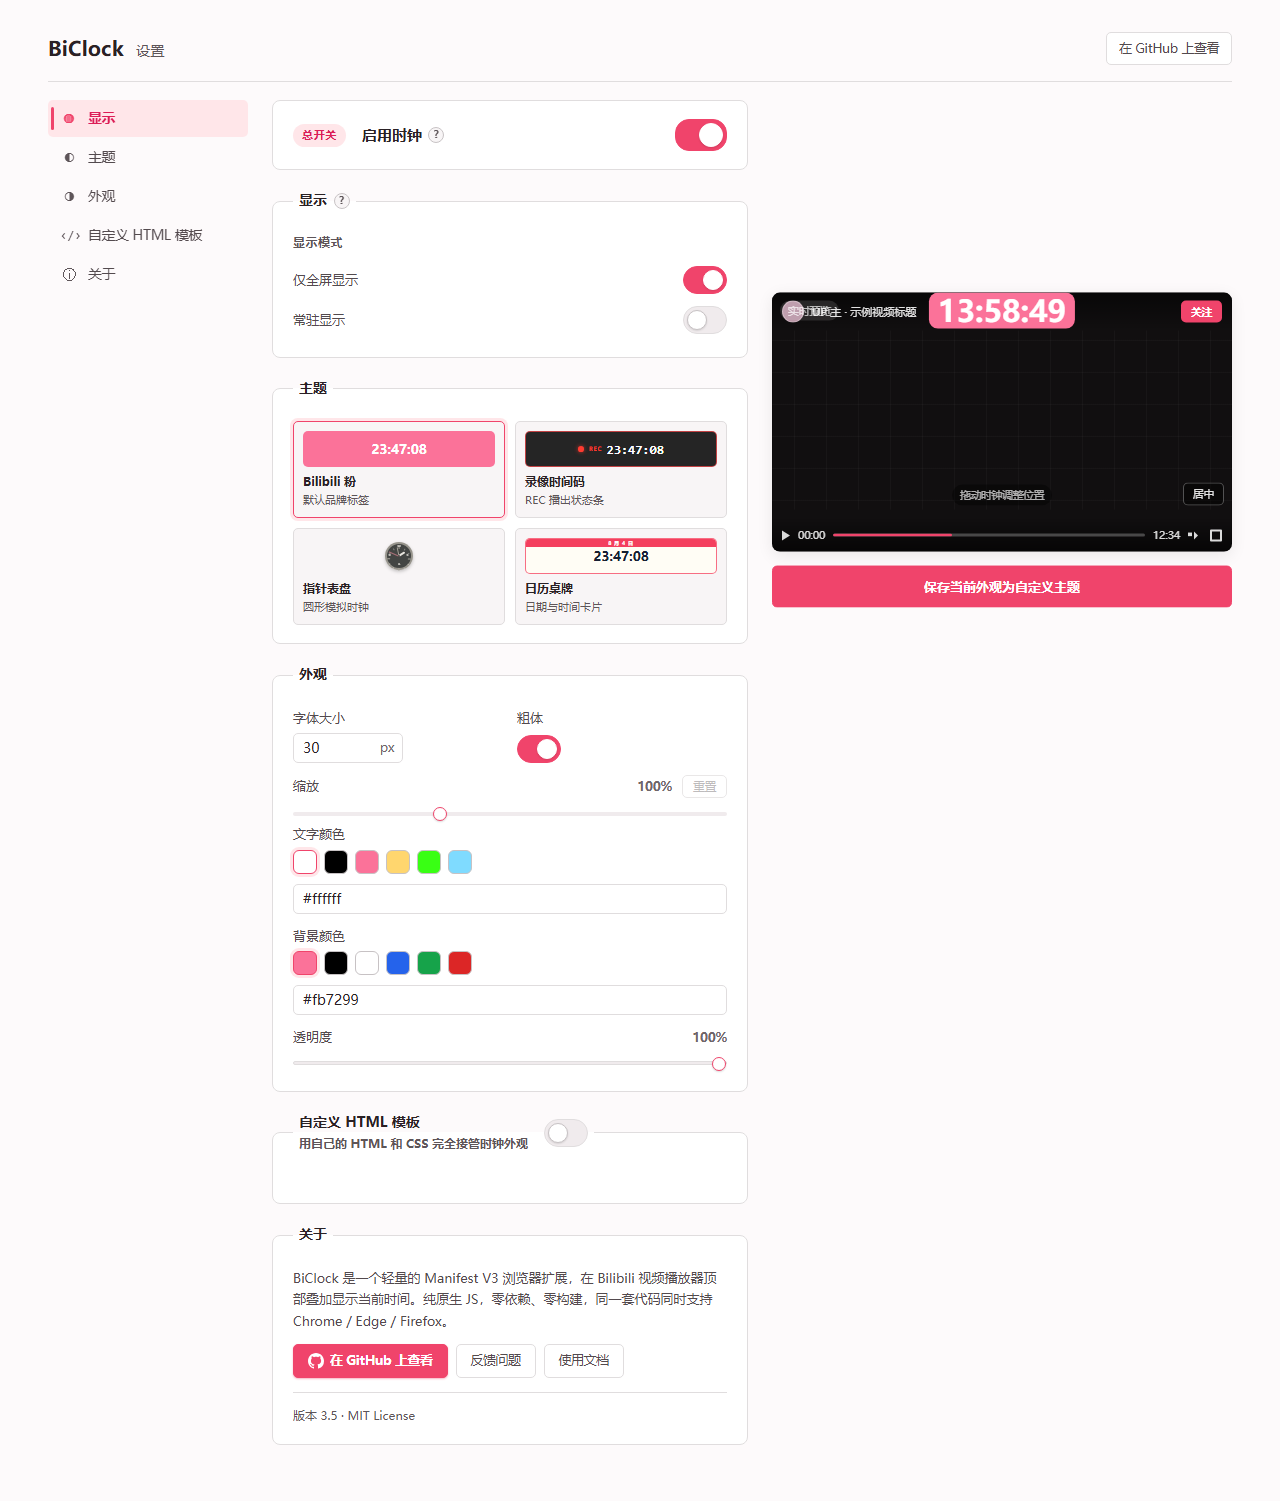
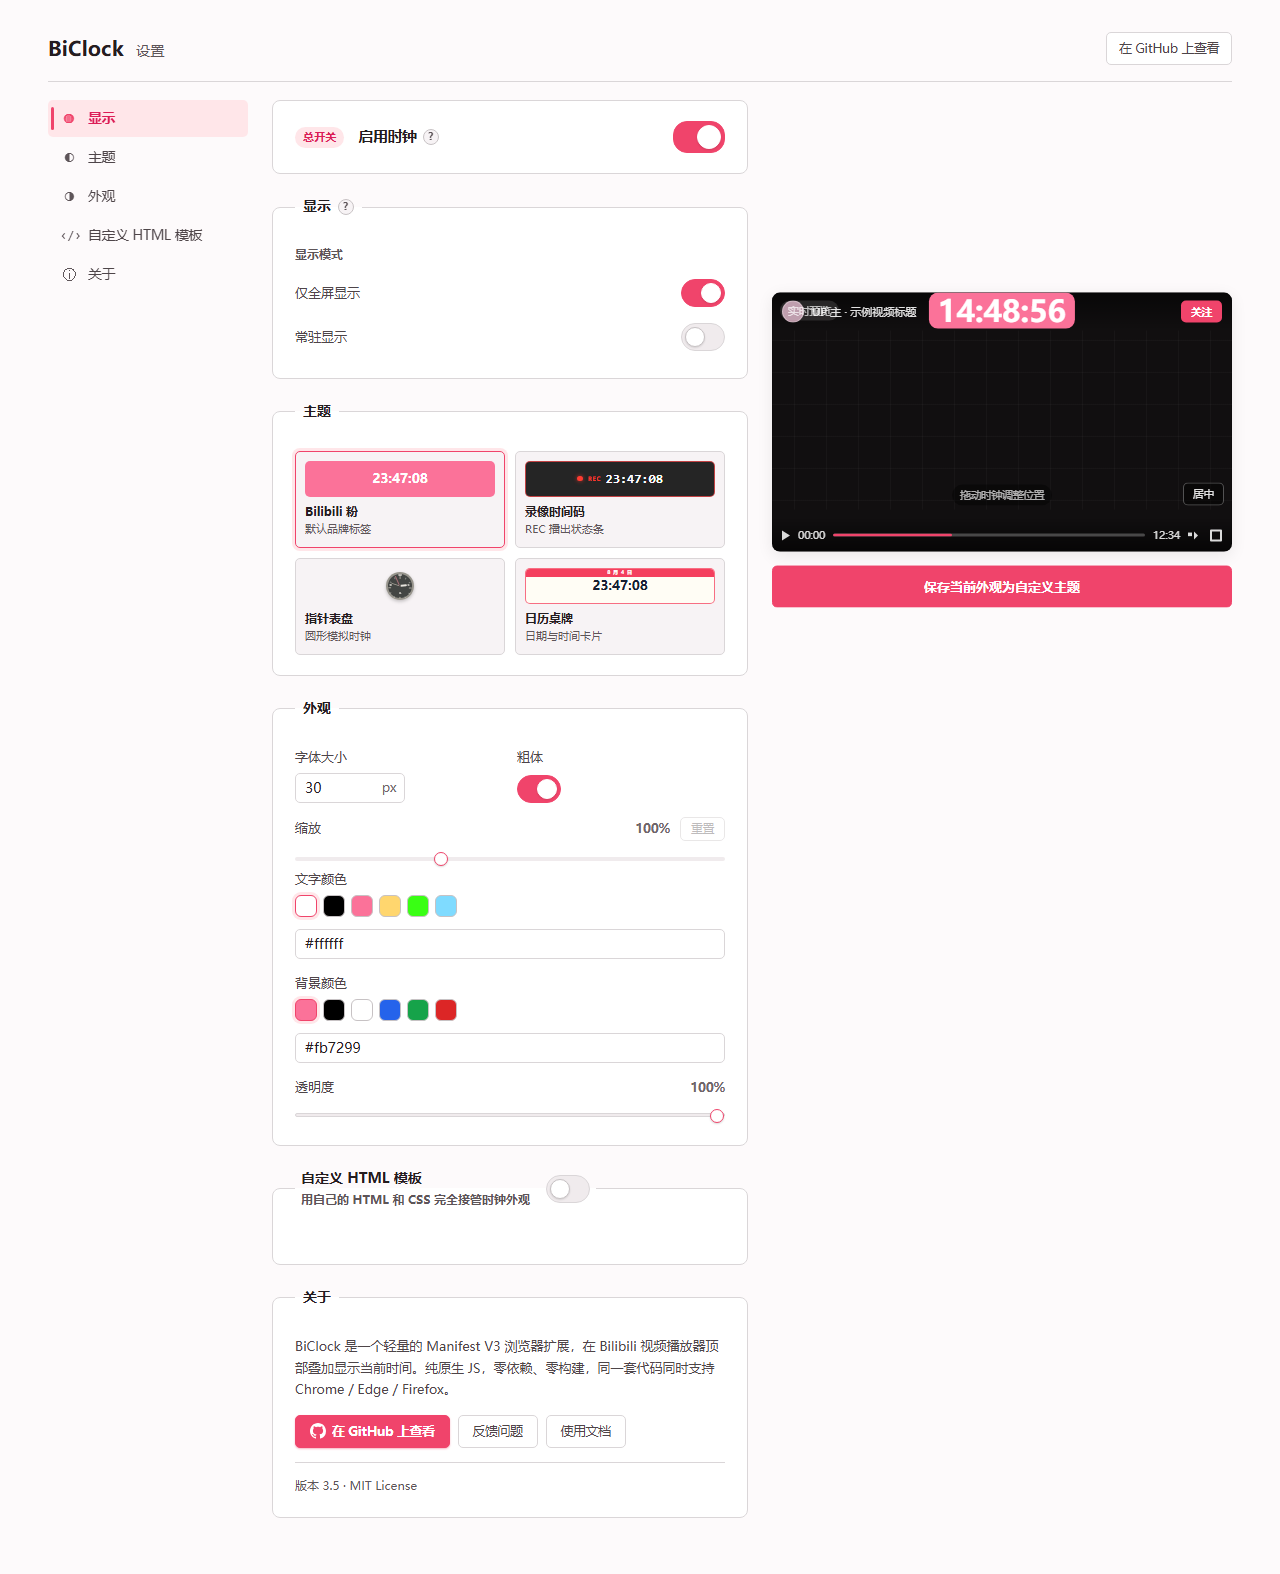
fix(styles): adjust color and spacing variables for improved UI consistency

diff --git a/popup.css b/popup.css
@@ -18,14 +18,14 @@
     /* 中性灰阶：很轻地往粉的方向偏 0.003 chroma，避免冷灰感 */
     --bg:          oklch(98.8% 0.003 350);
     --surface:     oklch(100%  0    0);
-    --surface-2:   oklch(97.2% 0.004 350);
+    --surface-2:   oklch(96.8% 0.005 350);
     --surface-3:   oklch(94.5% 0.005 350);
 
-    --border:      oklch(90.0% 0.004 350);
+    --border:      oklch(88.0% 0.005 350);
     --border-hi:   oklch(82.0% 0.006 350);
 
-    --ink:         oklch(26.0% 0.015 350);
-    --ink-2:       oklch(42.0% 0.014 350);
+    --ink:         oklch(24.0% 0.014 350);
+    --ink-2:       oklch(40.0% 0.014 350);
     --ink-3:       oklch(46.0% 0.013 350);
     --ink-unit:    oklch(52.0% 0.012 350);
 
@@ -49,7 +49,7 @@
 body {
     width: 296px;
     margin: 0;
-    padding: 14px 14px 14px;
+    padding: 16px 16px 18px;
     font-family: system-ui, -apple-system, "Segoe UI", Roboto, "Microsoft YaHei UI", "Microsoft YaHei", "PingFang SC", sans-serif;
     font-size: 13px;
     line-height: 1.45;
@@ -188,7 +188,7 @@ fieldset {
 }
 
 fieldset + fieldset {
-    margin-top: 14px;
+    margin-top: 16px;
 }
 
 legend {
@@ -212,9 +212,9 @@ label:last-child { margin-bottom: 0; }
 .grid-2 {
     display: grid;
     grid-template-columns: 1fr 1fr;
-    row-gap: 8px;
-    column-gap: 10px;
-    margin-bottom: 9px;
+    row-gap: 10px;
+    column-gap: 12px;
+    margin-bottom: 12px;
 }
 
 .field {
@@ -238,26 +238,26 @@ label:last-child { margin-bottom: 0; }
    只覆盖 color / backgroundColor 单键，bold / 字号 / 透明度不动。
    ============================================================ */
 .field-color {
-    margin-bottom: 9px;
+    margin-bottom: 12px;
 }
 
 .color-row {
     display: flex;
     align-items: center;
     flex-wrap: nowrap;
-    gap: 6px;
+    gap: 8px;
 }
 
 .swatches {
     display: flex;
     flex: none;
     flex-wrap: nowrap;
-    gap: 4px;
+    gap: 3px;
 }
 
 .swatch {
-    width: 18px;
-    height: 18px;
+    width: 16px;
+    height: 16px;
     flex: none;
     padding: 0;
     border: 1px solid var(--border-hi);
@@ -291,7 +291,7 @@ label:last-child { margin-bottom: 0; }
 /* 用 .color-row 提升特异性，压过通用 input[type="text"]{width:100%} (0,1,1)，
    否则 Hex 输入会被拉满 color-row，与 nowrap 色块叠加后挤出 popup。 */
 .color-row .hex-input {
-    width: 80px;
+    width: 76px;
     flex: none;
 }
 
@@ -313,11 +313,11 @@ label:last-child { margin-bottom: 0; }
     align-items: center;
     justify-content: space-between;
     gap: 10px;
-    padding: 4px 0;
+    padding: 6px 0;
 }
 
 .toggle-line + .toggle-line {
-    margin-top: 2px;
+    margin-top: 4px;
 }
 
 .toggle-line-text {
@@ -553,7 +553,7 @@ label:last-child { margin-bottom: 0; }
 .row-stacked {
     display: flex;
     flex-direction: column;
-    gap: 5px;
+    gap: 6px;
 }
 
 .row-stacked > .row-head {
@@ -570,7 +570,7 @@ label:last-child { margin-bottom: 0; }
 
 /* 数值徽标（range 的当前值，粉色 accent） */
 .value-display {
-    font-size: 11.5px;
+    font-size: 12px;
     color: var(--pink-hi);
     font-variant-numeric: tabular-nums;
     font-weight: 600;
@@ -593,13 +593,13 @@ label:last-child { margin-bottom: 0; }
 }
 
 .reset-inline-btn {
-    padding: 1px 8px;
+    padding: 2px 9px;
     border: 1px solid var(--border-hi);
     border-radius: 4px;
     background: var(--surface);
     color: var(--ink-3);
     font: inherit;
-    font-size: 11px;
+    font-size: 11.5px;
     font-weight: 500;
     line-height: 1.5;
     cursor: pointer;
@@ -640,7 +640,7 @@ label:last-child { margin-bottom: 0; }
 
 .input-unit .unit {
     position: absolute;
-    right: 8px;
+    right: 9px;
     top: 50%;
     transform: translateY(-50%);
     pointer-events: none;
@@ -870,7 +870,7 @@ input[type="checkbox"]:focus-visible {
    底部「更多设置」提示行：链接形式，触发同一 openOptions
    ============================================================ */
 .more-hint {
-    margin: 14px 0 0;
+    margin: 16px 0 0;
     padding: 10px 12px;
     border-radius: var(--radius-sm);
     background: var(--surface-2);
@@ -907,8 +907,8 @@ input[type="checkbox"]:focus-visible {
 .master-toggle-card {
     display: flex;
     align-items: center;
-    gap: 10px;
-    padding: 10px 12px;
+    gap: 11px;
+    padding: 9px 12px;
     margin: 0;
     border: 1px solid var(--border);
     border-radius: var(--radius);
@@ -917,11 +917,11 @@ input[type="checkbox"]:focus-visible {
 
 .master-toggle-eyebrow {
     flex: none;
-    padding: 2px 8px;
+    padding: 2px 7px;
     border-radius: 999px;
     background: var(--pink-soft);
     color: var(--pink-hi);
-    font-size: 10px;
+    font-size: 9.5px;
     font-weight: 700;
     letter-spacing: 0.06em;
 }
@@ -932,8 +932,8 @@ input[type="checkbox"]:focus-visible {
 }
 
 .master-toggle-name {
-    font-size: 13.5px;
-    font-weight: 650;
+    font-size: 13px;
+    font-weight: 600;
     color: var(--ink);
 }
 
@@ -964,7 +964,7 @@ input[type="checkbox"]:focus-visible {
 
 .sub-group-title {
     margin: 0 0 6px;
-    font-size: 11px;
+    font-size: 11.5px;
     font-weight: 600;
     color: var(--ink-3);
     letter-spacing: 0.04em;

diff --git a/options.css b/options.css
@@ -17,14 +17,14 @@
     /* 与 popup.css 同源的 tokens 副本（保持两边视觉一致） */
     --bg:          oklch(98.8% 0.003 350);
     --surface:     oklch(100%  0    0);
-    --surface-2:   oklch(97.2% 0.004 350);
+    --surface-2:   oklch(96.8% 0.005 350);
     --surface-3:   oklch(94.5% 0.005 350);
 
-    --border:      oklch(90.0% 0.004 350);
+    --border:      oklch(88.0% 0.005 350);
     --border-hi:   oklch(82.0% 0.006 350);
 
-    --ink:         oklch(26.0% 0.015 350);
-    --ink-2:       oklch(42.0% 0.014 350);
+    --ink:         oklch(24.0% 0.014 350);
+    --ink-2:       oklch(40.0% 0.014 350);
     --ink-3:       oklch(46.0% 0.013 350);
     --ink-unit:    oklch(52.0% 0.012 350);
 
@@ -500,14 +500,14 @@ body {
 .options-main {
     display: flex;
     flex-direction: column;
-    gap: 20px;
+    gap: 22px;
     min-width: 0;
 }
 
 .options-main fieldset {
     border: 1px solid var(--border);
     border-radius: var(--radius);
-    padding: 18px 20px;
+    padding: 20px 22px;
     margin: 0;
     background: var(--surface);
     /* grid item 默认 min-width: auto，内部有不可换行长内容（HTML 模板示例的
@@ -517,11 +517,13 @@ body {
 }
 
 legend {
+    display: flex;
+    align-items: center;
     font-weight: 600;
     font-size: 14px;
     color: var(--ink);
-    padding: 0 6px;
-    margin-bottom: 4px;
+    padding: 0 8px;
+    margin-bottom: 8px;
 }
 
 .section-intro {
@@ -753,15 +755,15 @@ legend {
 .grid-2 {
     display: grid;
     grid-template-columns: 1fr 1fr;
-    row-gap: 10px;
+    row-gap: 12px;
     column-gap: 14px;
-    margin-bottom: 12px;
+    margin-bottom: 14px;
 }
 
 .field {
     display: flex;
     flex-direction: column;
-    gap: 5px;
+    gap: 6px;
     margin-bottom: 0;
 }
 
@@ -775,25 +777,25 @@ legend {
 }
 
 .field-color {
-    margin-bottom: 12px;
+    margin-bottom: 14px;
 }
 
 .color-row {
     display: flex;
     align-items: center;
     flex-wrap: wrap;
-    gap: 10px;
+    gap: 12px;
 }
 
 .swatches {
     display: flex;
     flex-wrap: wrap;
-    gap: 7px;
+    gap: 6px;
 }
 
 .swatch {
-    width: 24px;
-    height: 24px;
+    width: 22px;
+    height: 22px;
     padding: 0;
     border: 1px solid var(--border-hi);
     border-radius: 6px;
@@ -824,7 +826,7 @@ legend {
 }
 
 .hex-input {
-    width: 96px;
+    width: 92px;
     margin-left: auto;
 }
 
@@ -847,7 +849,7 @@ legend {
     align-items: center;
     justify-content: space-between;
     gap: 12px;
-    padding: 5px 0;
+    padding: 7px 0;
 }
 
 .toggle-line + .toggle-line {
@@ -1088,7 +1090,7 @@ legend {
 .row-stacked {
     display: flex;
     flex-direction: column;
-    gap: 6px;
+    gap: 8px;
 }
 
 .row-stacked > .row-head {
@@ -1974,7 +1976,7 @@ pre.docs-code code {
 }
 
 .about-desc {
-    margin: 0 0 12px;
+    margin: 0 0 14px;
     font-size: 13px;
     line-height: 1.65;
     color: var(--ink-2);
@@ -2083,8 +2085,8 @@ pre.docs-code code {
 .master-toggle-card {
     display: flex;
     align-items: center;
-    gap: 16px;
-    padding: 16px 20px;
+    gap: 14px;
+    padding: 14px 20px;
     margin: 0;
     border: 1px solid var(--border);
     border-radius: var(--radius);
@@ -2093,11 +2095,11 @@ pre.docs-code code {
 
 .master-toggle-eyebrow {
     flex: none;
-    padding: 3px 9px;
+    padding: 2px 8px;
     border-radius: 999px;
     background: var(--pink-soft);
     color: var(--pink-hi);
-    font-size: 11px;
+    font-size: 10.5px;
     font-weight: 700;
     letter-spacing: 0.06em;
 }
@@ -2111,8 +2113,8 @@ pre.docs-code code {
     display: inline-flex;
     align-items: center;
     gap: 6px;
-    font-size: 15px;
-    font-weight: 650;
+    font-size: 14.5px;
+    font-weight: 600;
     color: var(--ink);
 }
 
@@ -2151,7 +2153,7 @@ pre.docs-code code {
 
 .sub-group-title {
     margin: 0 0 8px;
-    font-size: 12px;
+    font-size: 11.5px;
     font-weight: 600;
     color: var(--ink-3);
     letter-spacing: 0.04em;
